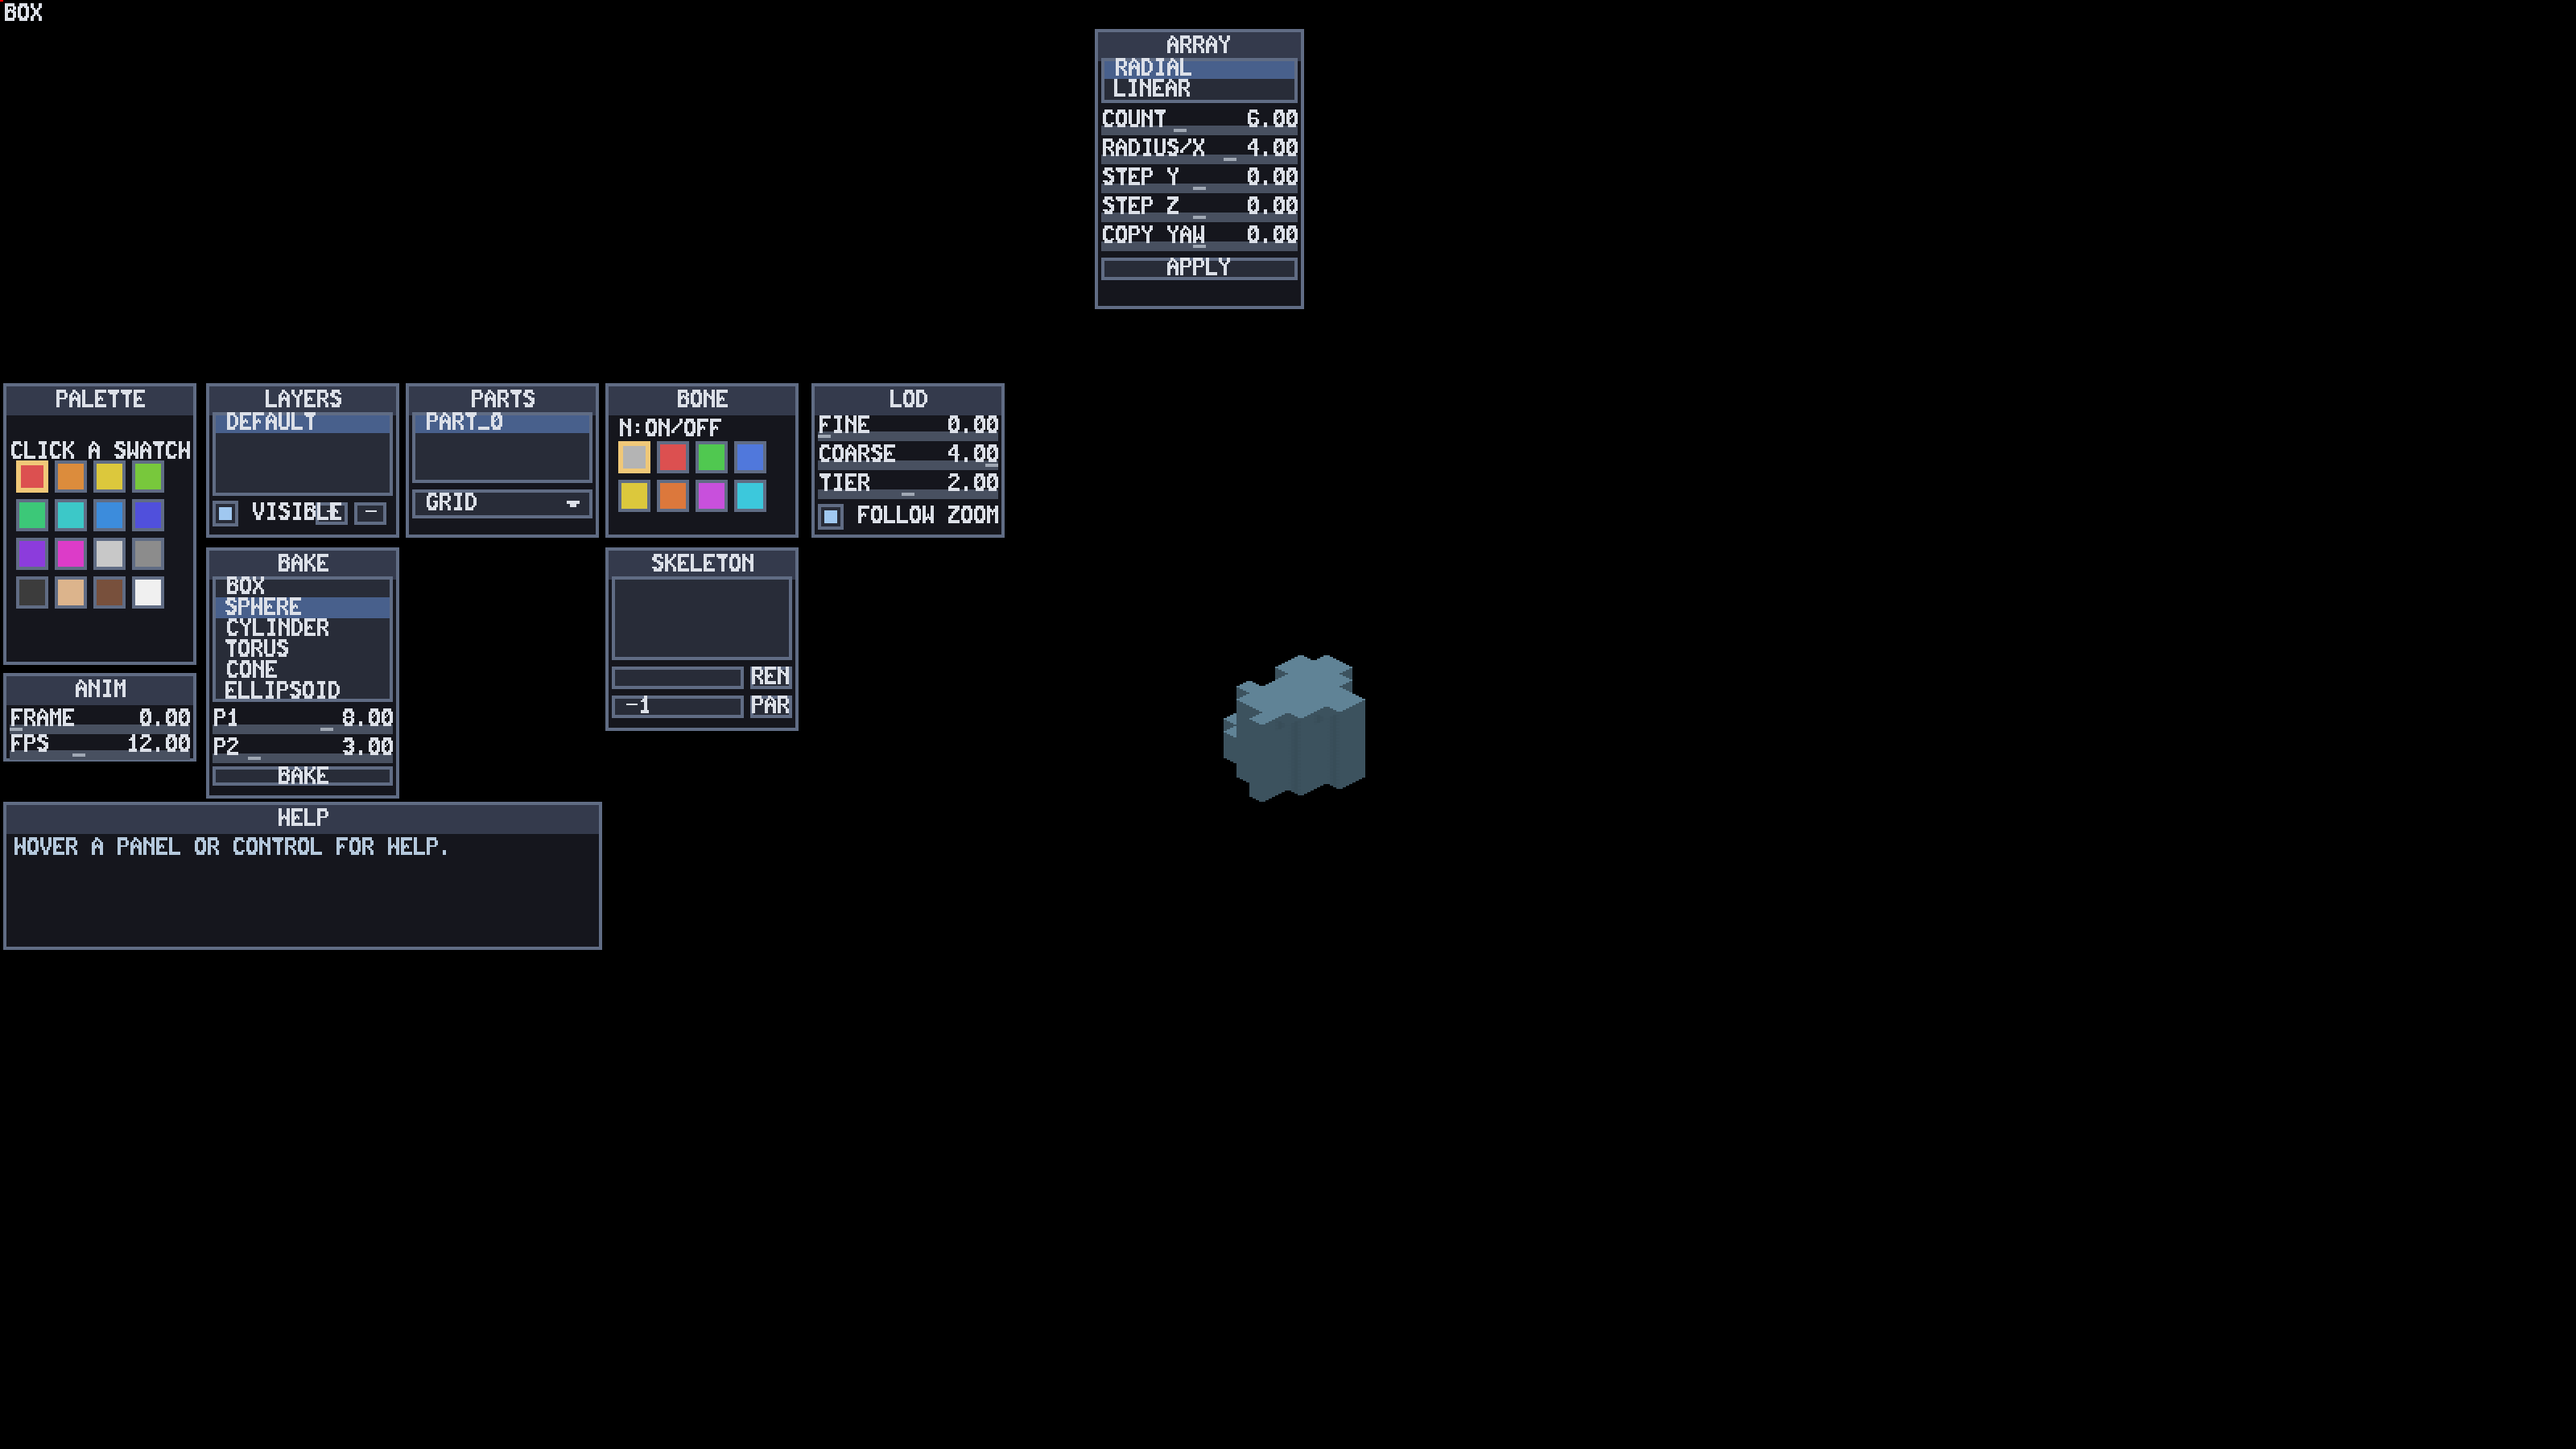
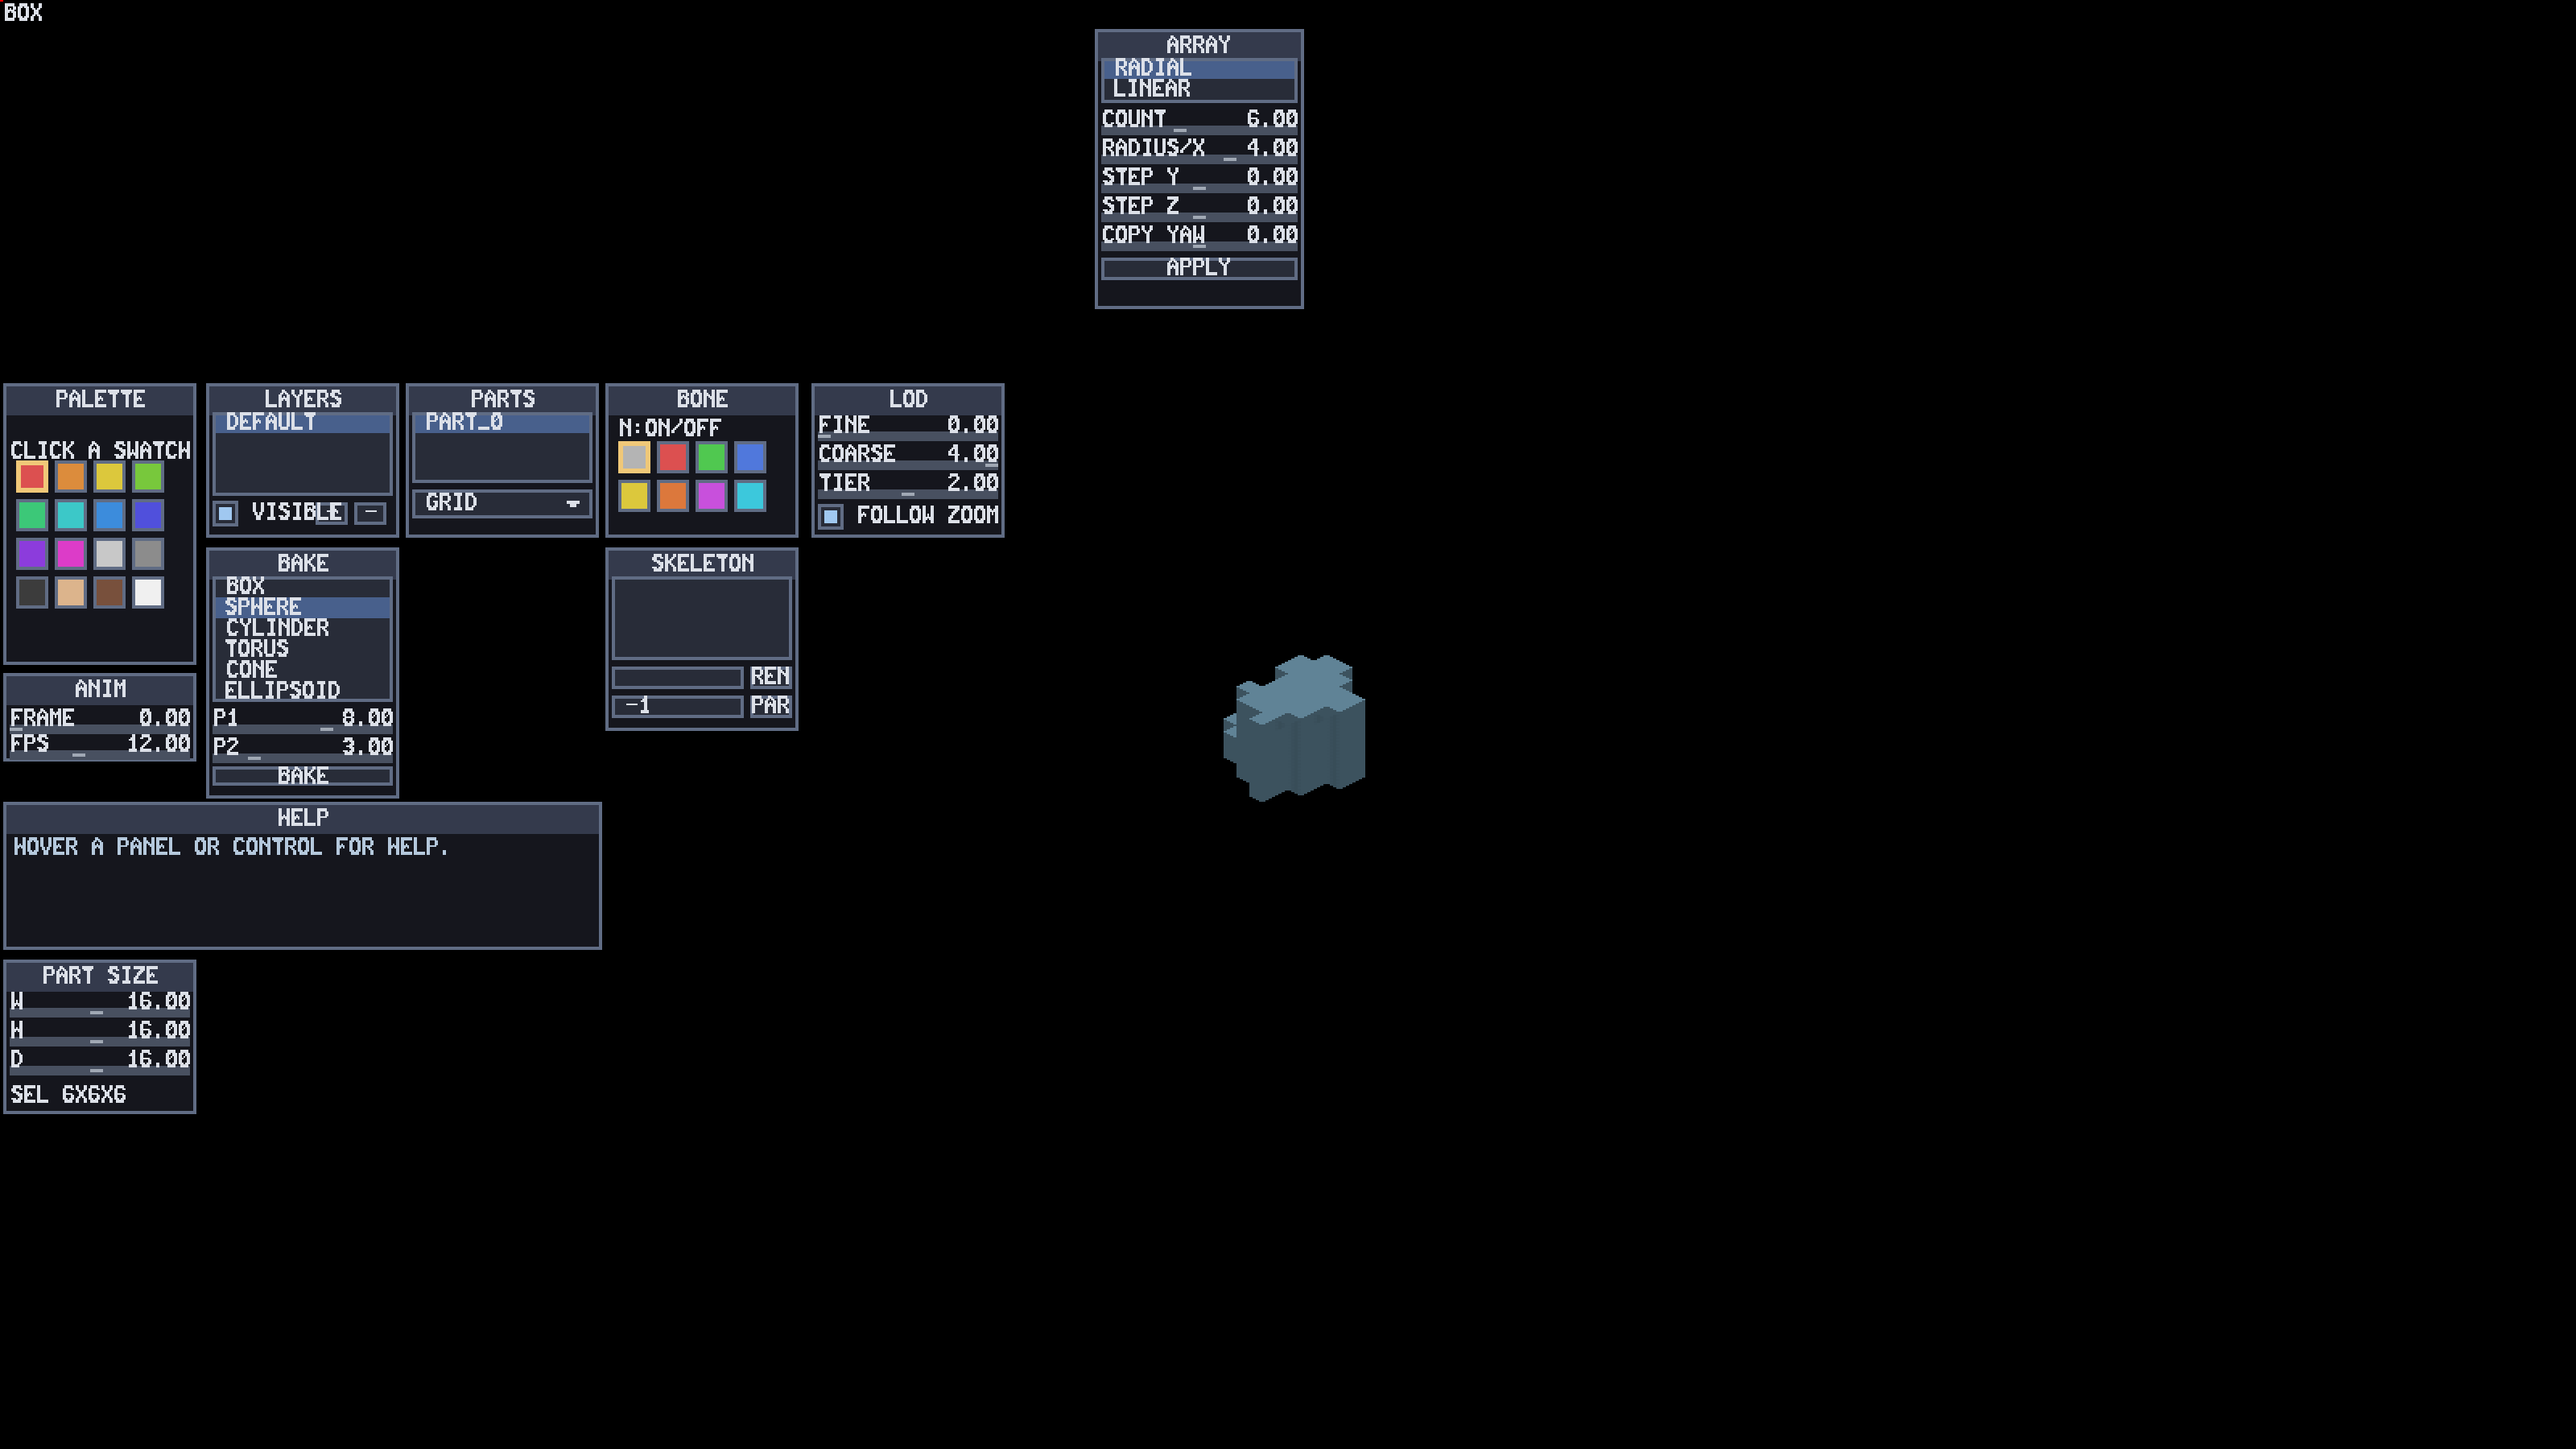
test(render): re-bless the editor references on the PART SIZE base
Rebased onto master, which re-blessed both voxel editor shots for the
PART SIZE panel. The two references are recaptured from the rebased
head: the lattice-displayed GUI with the PART SIZE panel, and the part
preview in the scene unchanged from master's copies.

Drops the prefab render guide from the diff; the earlier restore commit
pinned it to the old base and would have reverted master's fog-ghost
ordering rows.

Changed region(s): [[0.0, 0.6533, 0.0938, 0.7778]]

diff --git a/engine/prefabs/irreden/render/CLAUDE.md b/engine/prefabs/irreden/render/CLAUDE.md
@@ -42,9 +42,9 @@ Prefab-wide rules: [`engine/prefabs/CLAUDE.md`](../../CLAUDE.md). Rationale: [`d
 
 | System(s) | Must sit |
 |---|---|
-| `CANVAS_RESIDENCY` · `PROPAGATE_CANVAS_ROTATION` → `PROPAGATE_CANVAS_PARTS` → `REBUILD_DETACHED_VOXELS` | UPDATE: residency first (its staged switches land before the transform chain); the canvas chain after `PROPAGATE_TRANSFORM` |
+| `CANVAS_RESIDENCY` · fog reveal systems → `PROPAGATE_CANVAS_ROTATION` → `PROPAGATE_CANVAS_PARTS` → `REBUILD_DETACHED_VOXELS` | UPDATE: residency first; reveal publishes held canvas poses after `PROPAGATE_TRANSFORM`, then the canvas chain consumes them |
 | `LOD_UPDATE` → `GATE_VOXEL_SETS_BY_LOD` | UPDATE, before `PROPAGATE_TRANSFORM` / `UPDATE_VOXEL_SET_CHILDREN` |
-| voxel/shape/canvas `FOG_SUBJECT_EXEMPT_*` → matching adoption → matching eval (`IRPrefab::Fog::revealSystems()`) / `FOG_LOS_BUILD` | UPDATE after `PROPAGATE_TRANSFORM`, before `UPDATE_VOXEL_SET_CHILDREN` / RENDER before `FOG_TO_TRIXEL`, its own group (line-of-sight gated circles need it) |
+| voxel/shape/canvas `FOG_SUBJECT_EXEMPT_*` → adoption → HIDE/GHOST eval pairs (`FOG_REVEAL_EVAL[_GHOST]`, `FOG_REVEAL_EVAL_SHAPE[_GHOST]`, `FOG_REVEAL_EVAL_CANVAS[_GHOST]`; `revealSystems()`) / `FOG_LOS_BUILD` | UPDATE after `PROPAGATE_TRANSFORM`, before `UPDATE_VOXEL_SET_CHILDREN` / RENDER before `FOG_TO_TRIXEL`, its own group (line-of-sight gated circles need it) |
 | `UPDATE_JOINT_MATRICES` | after `PROPAGATE_TRANSFORM`, before `UPDATE_VOXEL_POSITIONS_GPU`; a creation with skeletons registers the prepass too |
 | `UPDATE_VOXEL_POSITIONS_GPU` | before `VOXEL_TO_TRIXEL_STAGE_1` |
 | `VOXEL_PICKING` | RENDER, after the camera systems, before `VOXEL_TO_TRIXEL_STAGE_1` |
